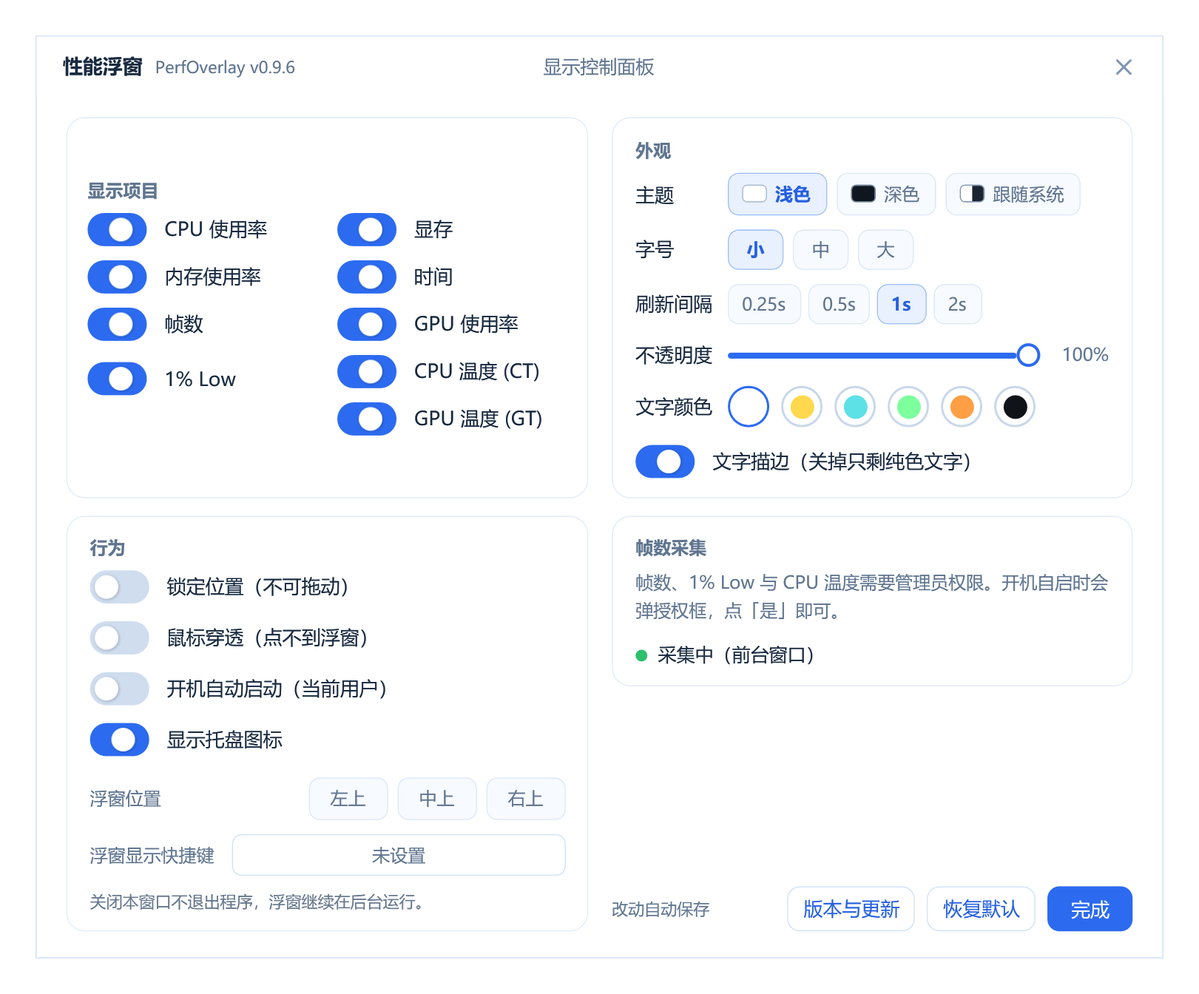
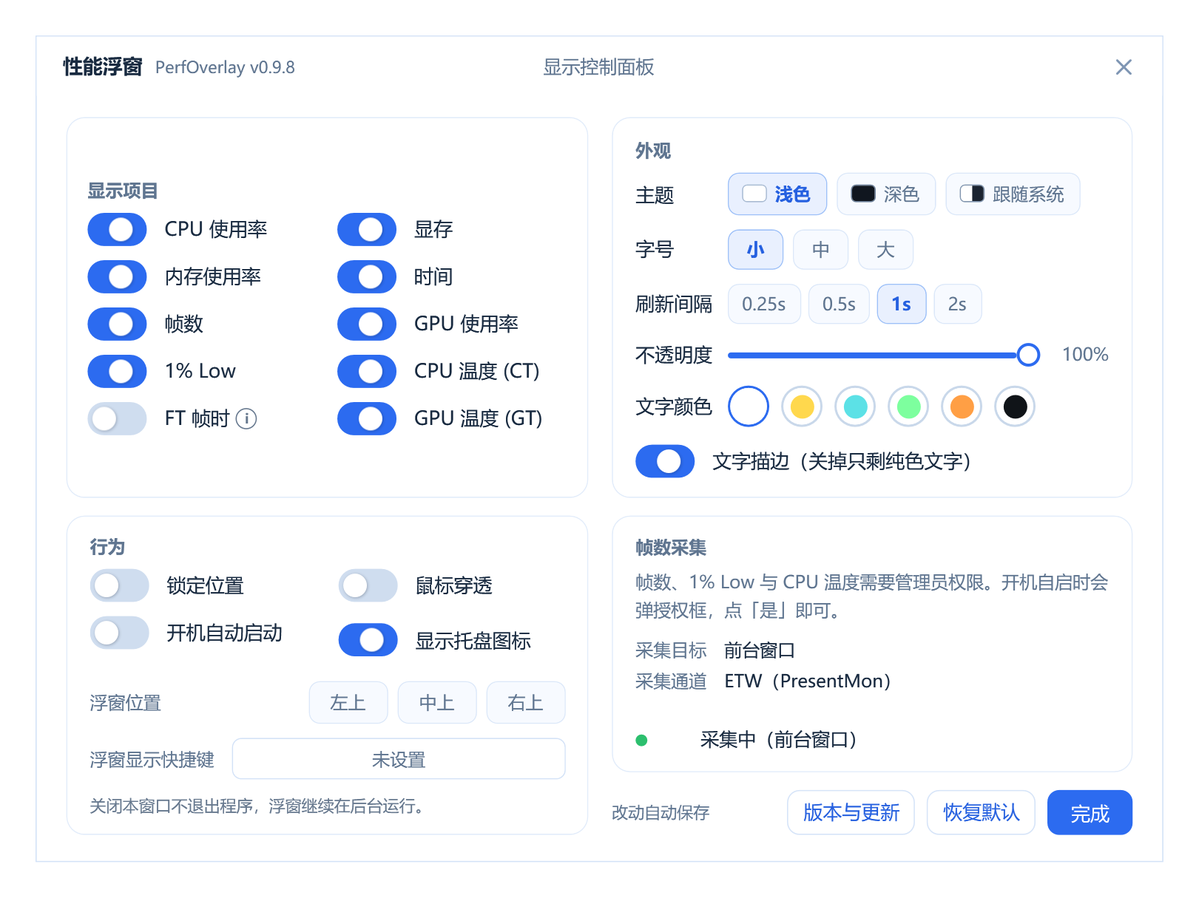
ui(设置面板): 行为改两列并去掉括号备注；右下卡填满该列，底栏上移
- 行为：四项 2x2（锁定位置 / 鼠标穿透 / 开机自动启动 / 显示托盘图标），
  括号里的限定说明移到 ToolTip，卡片矮 84 DIP，右下按钮随之上移
- 帧数采集：卡填满该列（行 0 星号），标题贴顶、状态行贴底，卡底与底栏只留 12 DIP
- 帧数采集新增实时键值：采集目标（正在量的进程）与采集通道（ETW / PresentMon）
- MonitorHost.FramesTarget + PresentMonEngine.TargetName：给面板显示「在测谁」
- 探针：新增行为两列真值表、右下填充断言、未授权态（按钮出现）布局断言
- 重新生成 README 配图（console / console-dark / screenshot）

diff --git a/Views/SettingsWindow.xaml b/Views/SettingsWindow.xaml
@@ -409,18 +409,40 @@
                     <StackPanel VerticalAlignment="Center">
                         <TextBlock Text="行为" Style="{StaticResource SectionTitle}" Margin="0,0,0,8" />
 
-                        <CheckBox x:Name="ChkLock" Style="{StaticResource Switch}" Content="锁定位置（不可拖动）"
-                                  Margin="0,0,0,12" Checked="OnAnyOptionChanged" Unchecked="OnAnyOptionChanged" />
-                        <CheckBox x:Name="ChkThrough" Style="{StaticResource Switch}" Content="鼠标穿透（点不到浮窗）"
-                                  Margin="0,0,0,12" Checked="OnAnyOptionChanged" Unchecked="OnAnyOptionChanged" />
-                        <CheckBox x:Name="ChkStartup" Style="{StaticResource Switch}" Content="开机自动启动（当前用户）"
-                                  Margin="0,0,0,12" Checked="OnStartupChanged" Unchecked="OnStartupChanged" />
-                        <CheckBox x:Name="ChkTray" Style="{StaticResource Switch}" Content="显示托盘图标"
-                                  Checked="OnAnyOptionChanged" Unchecked="OnAnyOptionChanged" />
+                        <!-- 四项两列（两行）：括号里的限定说明移到 tooltip，正文只留动作名。
+                             竖排四行是这张卡偏高的唯一原因，压成两行后整张卡矮一截，
+                             右下「恢复默认 / 完成」也随之抬高。 -->
+                        <Grid>
+                            <Grid.ColumnDefinitions>
+                                <ColumnDefinition Width="*" />
+                                <ColumnDefinition Width="14" />
+                                <ColumnDefinition Width="*" />
+                            </Grid.ColumnDefinitions>
+                            <Grid.RowDefinitions>
+                                <RowDefinition Height="Auto" />
+                                <RowDefinition Height="Auto" />
+                            </Grid.RowDefinitions>
+
+                            <CheckBox x:Name="ChkLock" Grid.Row="0" Grid.Column="0"
+                                      Style="{StaticResource Switch}" Content="锁定位置"
+                                      ToolTip="勾选后浮窗固定，不能拖动"
+                                      Margin="0,0,0,10" Checked="OnAnyOptionChanged" Unchecked="OnAnyOptionChanged" />
+                            <CheckBox x:Name="ChkThrough" Grid.Row="0" Grid.Column="2"
+                                      Style="{StaticResource Switch}" Content="鼠标穿透"
+                                      ToolTip="勾选后鼠标点不到浮窗，操作直接落到下面的窗口"
+                                      Margin="0,0,0,10" Checked="OnAnyOptionChanged" Unchecked="OnAnyOptionChanged" />
+                            <CheckBox x:Name="ChkStartup" Grid.Row="1" Grid.Column="0"
+                                      Style="{StaticResource Switch}" Content="开机自动启动"
+                                      ToolTip="当前用户，登录后自动启动"
+                                      Margin="0,0,0,10" Checked="OnStartupChanged" Unchecked="OnStartupChanged" />
+                            <CheckBox x:Name="ChkTray" Grid.Row="1" Grid.Column="2"
+                                      Style="{StaticResource Switch}" Content="显示托盘图标"
+                                      Checked="OnAnyOptionChanged" Unchecked="OnAnyOptionChanged" />
+                        </Grid>
 
                         <!-- 两行两列：左列标签、右列控件，两行的控件左边缘必须落在同一竖线，
                              所以共用同一个 Grid 的列，不各写一套。 -->
-                        <Grid Margin="0,14,0,0">
+                        <Grid Margin="0,12,0,0">
                             <Grid.ColumnDefinitions>
                                 <ColumnDefinition Width="Auto" />
                                 <ColumnDefinition Width="*" />
@@ -469,47 +491,94 @@
                 </Border>
 
                 <!-- ===== 右下：帧数采集 =====
-                     这张卡不再被左卡拉到等高：卡片贴顶、高度只包住内容，下边缘自然上移；
-                     「恢复默认 / 完成」沉到该列底部，正好落在窗口右下角。 -->
+                     这张卡填满该列剩余高度（行 0 吃星号），底栏按钮单占一行的 Auto 高度。
+                     早先是「卡片贴顶 + 按钮沉底」同格叠放，卡片下面会空出一大块；
+                     现在卡片边框直接把那块地方包住，视觉上不再有洞。 -->
                 <Grid Grid.Row="2" Grid.Column="2">
-                    <Border x:Name="CardFrame" Style="{StaticResource Card}" Padding="15,13"
-                            VerticalAlignment="Top">
-                        <StackPanel>
-                            <TextBlock Text="帧数采集" Style="{StaticResource SectionTitle}" Margin="0,0,0,8" />
+                    <Grid.RowDefinitions>
+                        <RowDefinition Height="*" />
+                        <RowDefinition Height="Auto" />
+                    </Grid.RowDefinitions>
 
-                            <TextBlock Text="帧数、1% Low 与 CPU 温度需要管理员权限。开机自启时会弹授权框，点「是」即可。"
-                                       FontSize="12" LineHeight="19" TextWrapping="Wrap"
-                                       Foreground="{DynamicResource TextSecondary}" />
+                    <!-- 卡内三段：标题与说明贴顶（与左卡「行为」标题同一水平线），
+                         状态行贴底（它的位置随卡高变化，但始终在底边上方一格内），
+                         中间那段星号行吸收多余高度。早先整块内容居中，标题会往下浮，
+                         与左边卡的标题对不齐，看着像排版错了。 -->
+                    <Border x:Name="CardFrame" Grid.Row="0" Style="{StaticResource Card}" Padding="15,13">
+                        <Grid>
+                            <Grid.RowDefinitions>
+                                <RowDefinition Height="Auto" />
+                                <RowDefinition Height="*" />
+                                <RowDefinition Height="Auto" />
+                            </Grid.RowDefinitions>
 
-                            <!-- 状态行 + 右侧「恢复」：
-                                 恢复按钮只在**有采集权限**时出现（没权限时这个位置留给下面的
-                                 「以管理员身份启动」）。它走的是和自动恢复完全相同的那条路径，
-                                 不是另写一套——自动恢复退避到 60 秒时，用户不必干等。 -->
-                            <Grid Margin="0,10,0,0">
-                                <Grid.ColumnDefinitions>
-                                    <ColumnDefinition Width="Auto" />
-                                    <ColumnDefinition Width="*" />
-                                    <ColumnDefinition Width="Auto" />
-                                </Grid.ColumnDefinitions>
-                                <Ellipse x:Name="DotStatus" Width="8" Height="8" Fill="{DynamicResource DotIdle}"
-                                         VerticalAlignment="Top" Margin="0,5,7,0" />
-                                <TextBlock x:Name="TxtFrameStatus" Grid.Column="1" Text="检测中…" FontSize="12.5"
-                                           Foreground="{DynamicResource TextPrimary}"
-                                           TextWrapping="Wrap" MaxWidth="248" />
-                                <Button x:Name="BtnRecover" Grid.Column="2" Content="恢复"
-                                        Style="{StaticResource GhostButton}" FontSize="12"
-                                        Padding="9,4" Margin="8,0,0,0" VerticalAlignment="Top"
-                                        Visibility="Collapsed" Click="OnRecoverClick"
-                                        ToolTip="重建帧采集：停掉当前采集、清掉残留的 ETW 会话后重新拉起" />
-                            </Grid>
+                            <StackPanel Grid.Row="0">
+                                <TextBlock Text="帧数采集" Style="{StaticResource SectionTitle}" Margin="0,0,0,8" />
 
-                            <Button x:Name="BtnElevate" Content="以管理员身份启动" Style="{StaticResource PrimaryButton}"
-                                    HorizontalAlignment="Left" Padding="14,6" Margin="0,12,0,0"
-                                    Click="OnElevateClick" />
-                        </StackPanel>
+                                <TextBlock Text="帧数、1% Low 与 CPU 温度需要管理员权限。开机自启时会弹授权框，点「是」即可。"
+                                           FontSize="12" LineHeight="19" TextWrapping="Wrap"
+                                           Foreground="{DynamicResource TextSecondary}" />
+
+                                <!-- 采集目标 / 通道：说明「现在量的是谁、走的哪条链路」。
+                                     没有它，帧数不出来时用户既看不出是在量前台窗口，
+                                     还是根本没锁定目标。两行键值也把卡片中间那块空当填掉。 -->
+                                <Grid Margin="0,8,0,0">
+                                    <Grid.ColumnDefinitions>
+                                        <ColumnDefinition Width="Auto" />
+                                        <ColumnDefinition Width="*" />
+                                    </Grid.ColumnDefinitions>
+                                    <Grid.RowDefinitions>
+                                        <RowDefinition Height="Auto" />
+                                        <RowDefinition Height="Auto" />
+                                    </Grid.RowDefinitions>
+
+                                    <TextBlock Text="采集目标" FontSize="12" VerticalAlignment="Center"
+                                               Foreground="{DynamicResource TextSecondary}" />
+                                    <TextBlock x:Name="TxtTarget" Grid.Column="1" Text="—" FontSize="12"
+                                               Margin="12,0,0,0" VerticalAlignment="Center"
+                                               TextTrimming="CharacterEllipsis"
+                                               Foreground="{DynamicResource TextPrimary}" />
+
+                                    <TextBlock Grid.Row="1" Text="采集通道" FontSize="12" Margin="0,6,0,0"
+                                               VerticalAlignment="Center"
+                                               Foreground="{DynamicResource TextSecondary}" />
+                                    <TextBlock Grid.Row="1" Grid.Column="1" Text="ETW（PresentMon）"
+                                               FontSize="12" Margin="12,6,0,0" VerticalAlignment="Center"
+                                               Foreground="{DynamicResource TextPrimary}" />
+                                </Grid>
+                            </StackPanel>
+
+                            <StackPanel Grid.Row="2">
+                                <!-- 状态行 + 右侧「恢复」：
+                                     恢复按钮只在**有采集权限**时出现（没权限时这个位置留给下面的
+                                     「以管理员身份启动」）。它走的是和自动恢复完全相同的那条路径，
+                                     不是另写一套——自动恢复退避到 60 秒时，用户不必干等。 -->
+                                <Grid>
+                                    <Grid.ColumnDefinitions>
+                                        <ColumnDefinition Width="Auto" />
+                                        <ColumnDefinition Width="*" />
+                                        <ColumnDefinition Width="Auto" />
+                                    </Grid.ColumnDefinitions>
+                                    <Ellipse x:Name="DotStatus" Width="8" Height="8" Fill="{DynamicResource DotIdle}"
+                                             VerticalAlignment="Top" Margin="0,5,7,0" />
+                                    <TextBlock x:Name="TxtFrameStatus" Grid.Column="1" Text="检测中…" FontSize="12.5"
+                                               Foreground="{DynamicResource TextPrimary}"
+                                               TextWrapping="Wrap" MaxWidth="248" />
+                                    <Button x:Name="BtnRecover" Grid.Column="2" Content="恢复"
+                                            Style="{StaticResource GhostButton}" FontSize="12"
+                                            Padding="9,4" Margin="8,0,0,0" VerticalAlignment="Top"
+                                            Visibility="Collapsed" Click="OnRecoverClick"
+                                            ToolTip="重建帧采集：停掉当前采集、清掉残留的 ETW 会话后重新拉起" />
+                                </Grid>
+
+                                <Button x:Name="BtnElevate" Content="以管理员身份启动" Style="{StaticResource PrimaryButton}"
+                                        HorizontalAlignment="Left" Padding="14,6" Margin="0,12,0,0"
+                                        Click="OnElevateClick" />
+                            </StackPanel>
+                        </Grid>
                     </Border>
 
-                    <Grid VerticalAlignment="Bottom">
+                    <Grid x:Name="FooterRow" Grid.Row="1" Margin="0,12,0,0">
                         <!-- 这一行挤了三个按钮，左边提示语要跟着收短：
                              「改动即时生效并自动保存」有 132 DIP 宽，右列只有 353，会让文字钻到按钮底下。 -->
                         <TextBlock Text="改动自动保存" FontSize="11"

diff --git a/App.xaml.cs b/App.xaml.cs
@@ -969,17 +969,24 @@ namespace PerfOverlay
             }
 
             bool row1Same = Math.Abs(rects[0].Height - rects[1].Height) <= 0.5;
-            // 第 2 行故意不等高：右下「帧数采集」按内容自适应高度，下边缘上移，
-            // 「恢复默认 / 完成」被放到卡片外面。所以这里只要求"不比左卡高" + 顶对齐。
+            // 第 2 行不等高：右下「帧数采集」填满该列剩余高度后仍比左卡矮（底栏按钮占一行），
+            // 所以这里要求"不比左卡高" + 顶对齐；下面再单独断言卡底与底栏之间只剩行间距。
             bool row2Lower = rects[3].Height <= rects[2].Height + 0.5;
             bool row1Top = Math.Abs(rects[0].Top - rects[1].Top) <= 0.5;
             bool row2Top = Math.Abs(rects[2].Top - rects[3].Top) <= 0.5;
+
+            // 右下卡必须填满该列：卡底到「恢复默认 / 完成」那行之间只该有 12 DIP 行间距。
+            // 早先是「卡片贴顶 + 按钮沉底」同格叠放，中间空出一整块 —— 光看截图容易觉得
+            // "还行"，量一下才知道空了 160 DIP。
+            var foot = w.FooterRowElement;
+            double footTop = foot.TranslatePoint(new System.Windows.Point(0, 0), w).Y;
+            bool row2Filled = Math.Abs(footTop - rects[3].Bottom - 12) <= 1.5;
             // 容差取 1 DIP：1.25 DPI 下 UseLayoutRounding 的量化步长是 0.8 DIP（一个设备像素），
             // 两列各占 352.8 / 352.0 属正常，肉眼看不出，也不该为了凑整关掉像素对齐。
             bool colsSame = Math.Abs(rects[0].Width - rects[1].Width) <= 1.0;
             bool leftEdge = Math.Abs(rects[0].Left - rects[2].Left) <= 0.5;
             bool rightEdge = Math.Abs((winW - rects[1].Right) - rects[0].Left) <= 0.5;
-            bool align = row1Same && row2Lower && row1Top && row2Top && colsSame && leftEdge && rightEdge;
+            bool align = row1Same && row2Lower && row2Filled && row1Top && row2Top && colsSame && leftEdge && rightEdge;
             if (!align) fails++;
 
             // 位置三档：同一行、等宽、文字放得下
@@ -1140,6 +1147,44 @@ namespace PerfOverlay
             bool metricsOk = colA && colB && rowsTied && colsApart && rowsEven && textFits;
             if (!metricsOk) fails++;
 
+            // 「行为」四项从竖排四行改成两列两行：列内左对齐、同一行顶对齐、列间有缝、
+            // 文字放得下。四个开关里「开机自动启动」「显示托盘图标」都是六个字，
+            // 半栏放不放得下只有量字宽才知道，被压窄只会静默裁字。
+            var beh = w.BehaviorSwitches();
+            var bhRect = new System.Windows.Rect[beh.Length];
+            for (int i = 0; i < beh.Length; i++)
+            {
+                var p = beh[i].TranslatePoint(new System.Windows.Point(0, 0), w);
+                bhRect[i] = new System.Windows.Rect(p.X, p.Y, beh[i].ActualWidth, beh[i].ActualHeight);
+            }
+            bool bhColA = true, bhColB = true, bhRows = true, bhFits = true;
+            var bhTight = new StringBuilder();
+            for (int i = 0; i < bhRect.Length; i++)
+            {
+                // 0/2 是左列、1/3 是右列；0/1 是第 1 行、2/3 是第 2 行
+                int colRef = (i % 2 == 0) ? 0 : 1;
+                int rowRef = (i < 2) ? 0 : 2;
+                if (Math.Abs(bhRect[i].Left - bhRect[colRef].Left) > 0.5)
+                {
+                    if (i % 2 == 0) bhColA = false; else bhColB = false;
+                }
+                if (Math.Abs(bhRect[i].Top - bhRect[rowRef].Top) > 0.5) bhRows = false;
+                var cb = beh[i] as System.Windows.Controls.CheckBox;
+                string label = (cb == null || cb.Content == null) ? "" : cb.Content.ToString();
+                double avail = bhRect[i].Width - 40 - 12;
+                double needW = TextWidthDip(label, 13, FontWeights.Normal);
+                if (needW > avail + 0.5)
+                {
+                    bhFits = false;
+                    bhTight.Append(string.Format("{0}({1:0.0}>{2:0.0}) ", label, needW, avail));
+                }
+                if (bhRect[i].Left < rects[2].Left - 0.5 || bhRect[i].Right > rects[2].Right + 0.5) bhFits = false;
+            }
+            double bhGap = bhRect[1].Left - bhRect[0].Right;
+            bool bhApart = bhGap >= 8.0;
+            bool behaviorOk = bhColA && bhColB && bhRows && bhApart && bhFits;
+            if (!behaviorOk) fails++;
+
             sb.AppendLine("== 设置面板 ==");
             sb.AppendLine(string.Format("   窗口      = {0:0.0} x {1:0.0} DIP", winW, winH));
             sb.AppendLine(string.Format("   内容需要  = {0:0.0} x {1:0.0} DIP", need.Width, need.Height));
@@ -1156,6 +1201,8 @@ namespace PerfOverlay
                     names[i], rects[i].X, rects[i].Y, rects[i].Width, rects[i].Height));
             }
             sb.AppendLine(string.Format("   同行等高  = {0} / 右下更矮 {1}", row1Same ? "OK" : "FAIL", row2Lower ? "OK" : "FAIL"));
+            sb.AppendLine(string.Format("   右下填充  = 卡底 {0:0.0} → 底栏 {1:0.0}（间距 {2:0.0}）=> {3}",
+                rects[3].Bottom, footTop, footTop - rects[3].Bottom, row2Filled ? "OK" : "FAIL"));
             sb.AppendLine(string.Format("   同行顶对齐= {0} / {1}", row1Top ? "OK" : "FAIL", row2Top ? "OK" : "FAIL"));
             sb.AppendLine(string.Format("   左右等宽  = {0}", colsSame ? "OK" : "FAIL"));
             sb.AppendLine(string.Format("   左右外边距相等 = {0}", rightEdge ? "OK" : "FAIL"));
@@ -1175,6 +1222,10 @@ namespace PerfOverlay
                 rowsEven ? "OK" : "FAIL", gapDetail,
                 colGapDip, textFits ? "OK" : "FAIL", metricsOk ? "OK" : "FAIL"));
             if (!textFits && tight.Length > 0) sb.AppendLine("     放不下：" + tight.ToString().Trim());
+            sb.AppendLine(string.Format("   行为两列  = 左列对齐 {0} / 右列对齐 {1} / 同行顶对齐 {2} / 列间 {3:0.0} DIP / 文字够 {4} => {5}",
+                bhColA ? "OK" : "FAIL", bhColB ? "OK" : "FAIL", bhRows ? "OK" : "FAIL",
+                bhGap, bhFits ? "OK" : "FAIL", behaviorOk ? "OK" : "FAIL"));
+            if (!bhFits && bhTight.Length > 0) sb.AppendLine("     放不下：" + bhTight.ToString().Trim());
 
             // ---- 感叹号点亮时的 CT 行 ----
             // 它平时是 Collapsed，光看默认布局等于没测。这里临时点亮再量三件事：
@@ -1214,6 +1265,42 @@ namespace PerfOverlay
             }
             if (!warnOk) fails++;
             sb.AppendLine(warnLine);
+
+            // ---- 未授权态：帧数采集卡里会多出一个「以管理员身份启动」 ----
+            // 这张卡现在填满整列，按钮出现后内容变高；一旦没人量，它会悄悄把卡撑破
+            // 或者压到底栏上。这里临时点亮再复原，量三件事：按钮在卡内、卡底到顶栏
+            // 仍只剩 12 DIP、窗口跟着长高而不是把内容裁掉。
+            string elevLine;
+            bool elevOk = true;
+            {
+                var btn = w.ElevateButtonElement;
+                var beforeVis = btn.Visibility;
+                btn.Visibility = System.Windows.Visibility.Visible;
+                w.UpdateLayout();
+
+                var elevCard = w.Cards()[3];
+                var cardT = elevCard.TransformToAncestor(w).Transform(new System.Windows.Point(0, 0));
+                var btnT = btn.TransformToAncestor(w).Transform(new System.Windows.Point(0, 0));
+                var footEl = w.FooterRowElement;
+                var footT = footEl.TransformToAncestor(w).Transform(new System.Windows.Point(0, 0));
+
+                double cardBottom = cardT.Y + elevCard.ActualHeight;
+                double btnBottom = btnT.Y + btn.ActualHeight;
+                bool elevInCard = btnBottom <= cardBottom - 12.0;    // 卡内边距 13，留 1 DIP 余量
+                bool elevFootFollows = Math.Abs(footT.Y - cardBottom - 12) <= 1.5;
+                bool elevNoClip = Math.Abs(w.ActualHeight - w.MeasureContentHeight().Height) <= 1.0;
+                elevOk = elevInCard && elevFootFollows && elevNoClip;
+
+                elevLine = string.Format(
+                    "   未授权态  = 按钮在卡内 {0}（底 {1:0.0} ≤ {2:0.0}）/ 底栏跟随 {3} / 不裁切 {4} => {5}",
+                    elevInCard ? "OK" : "FAIL", btnBottom, cardBottom - 12,
+                    elevFootFollows ? "OK" : "FAIL", elevNoClip ? "OK" : "FAIL", elevOk ? "OK" : "FAIL");
+
+                btn.Visibility = beforeVis;
+                w.UpdateLayout();
+            }
+            if (!elevOk) fails++;
+            sb.AppendLine(elevLine);
             sb.AppendLine();
 
             w.CloseForShutdown();

diff --git a/Views/SettingsWindow.xaml.cs b/Views/SettingsWindow.xaml.cs
@@ -88,6 +88,27 @@ namespace PerfOverlay.Views
             { ChkCpu, ChkMem, ChkFps, ChkLow, ChkFrameTime, ChkVram, ChkClock, ChkGpu, ChkCpuTemp, ChkGpuTemp };
         }
 
+        /// <summary>
+        /// 诊断用：「行为」卡里的四个开关，顺序是「左列 2 个 + 右列 2 个」。
+        /// 它们从竖排四行改成两列两行，两列是否对齐、文字是否被压窄都必须能量。
+        /// </summary>
+        public System.Windows.FrameworkElement[] BehaviorSwitches()
+        {
+            return new System.Windows.FrameworkElement[] { ChkLock, ChkThrough, ChkStartup, ChkTray };
+        }
+
+        /// <summary>诊断用：右下底栏（版本与更新 / 恢复默认 / 完成）。</summary>
+        public System.Windows.FrameworkElement FooterRowElement { get { return FooterRow; } }
+
+        /// <summary>诊断用：「以管理员身份启动」（未授权时才显示，测量时要临时点亮它）。</summary>
+        public System.Windows.FrameworkElement ElevateButtonElement { get { return BtnElevate; } }
+
+        /// <summary>诊断用：帧数采集卡里那条实时状态文字与它的圆点。</summary>
+        public System.Windows.FrameworkElement[] FrameStatusRow()
+        {
+            return new System.Windows.FrameworkElement[] { DotStatus, TxtFrameStatus };
+        }
+
         /// <summary>诊断用：内容区根（不含标题栏），按钮越界检查以它为右边界。</summary>
         public System.Windows.FrameworkElement ContentArea { get { return ContentRoot; } }
 
@@ -189,6 +210,7 @@ namespace PerfOverlay.Views
 
             DotStatus.Fill = StatusOk;
             TxtFrameStatus.Text = "采集中（前台窗口）";
+            TxtTarget.Text = "前台窗口";
             BtnElevate.Visibility = Visibility.Collapsed;
             BtnRecover.Visibility = Visibility.Collapsed;
         }
@@ -209,6 +231,9 @@ namespace PerfOverlay.Views
             bool can = PrivilegeHelper.CanCaptureFrames;
             string health = host.FramesHealth ?? "";
             string note = host.FramesHealthNote ?? "";
+
+            string tgt = host.FramesTarget ?? "";
+            TxtTarget.Text = tgt.Length > 0 ? tgt : "未锁定（等前台窗口出帧）";
 
             if (!host.Frames.PresentMonFound)
             {

diff --git a/Services/MonitorHost.cs b/Services/MonitorHost.cs
@@ -212,6 +212,9 @@ namespace PerfOverlay.Services
 
         public bool FramesRunning { get { return Frames.IsRunning; } }
 
+        /// <summary>正在采集的进程名，面板上显示「采集目标」用。空串表示还没有目标。</summary>
+        public string FramesTarget { get { return Frames.TargetName; } }
+
         /// <summary>
         /// CT 当前的取数状态，给设置面板判断要不要显示感叹号。
         /// 只读，不会触发安装 —— 驱动不在就是 not_installed，仅此而已。

diff --git a/Services/PresentMonEngine.cs b/Services/PresentMonEngine.cs
@@ -274,6 +274,9 @@ namespace PerfOverlay.Services
         /// <summary>当前目标 PID（诊断用）。</summary>
         public int TargetPid { get { lock (_gate) { return _targetPid; } } }
 
+        /// <summary>正在采集的进程名（空串 = 还没有目标）。给面板显示「在测谁」用。</summary>
+        public string TargetName { get { lock (_gate) { return _targetName; } } }
+
         public PresentMonEngine(string exePath, bool excludeSelf = true)
         {
             _exePath = exePath;
